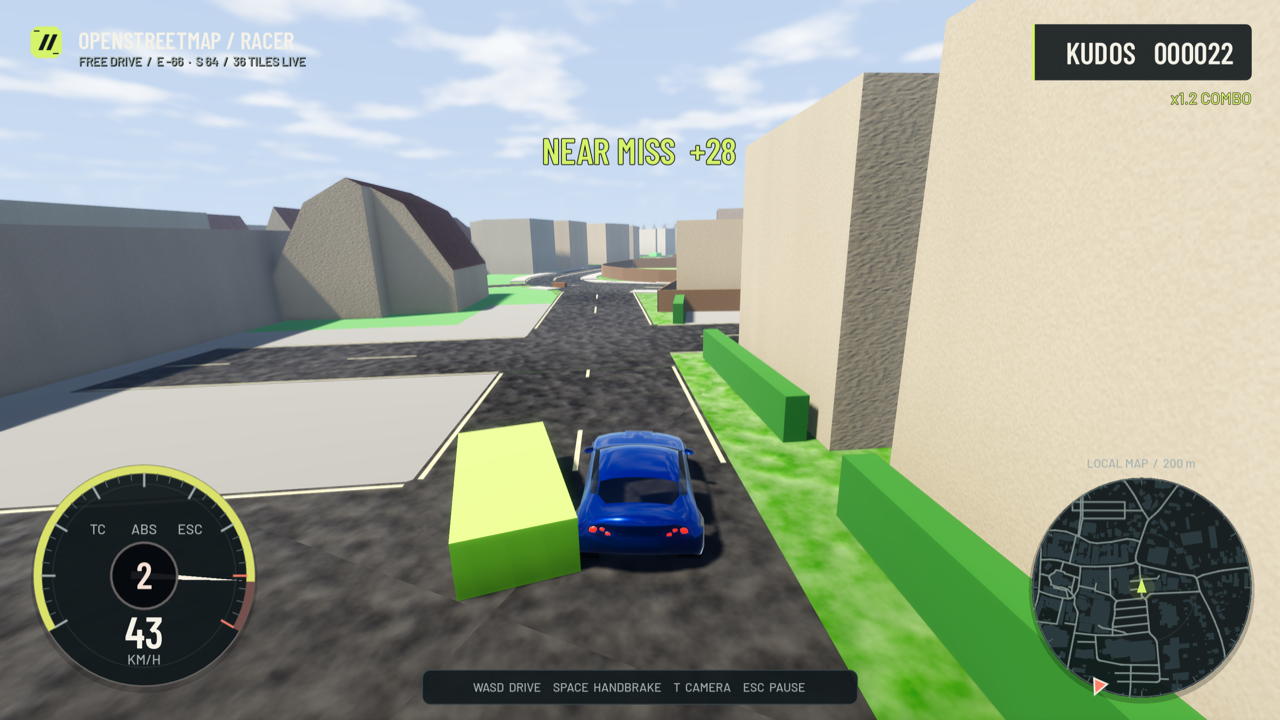
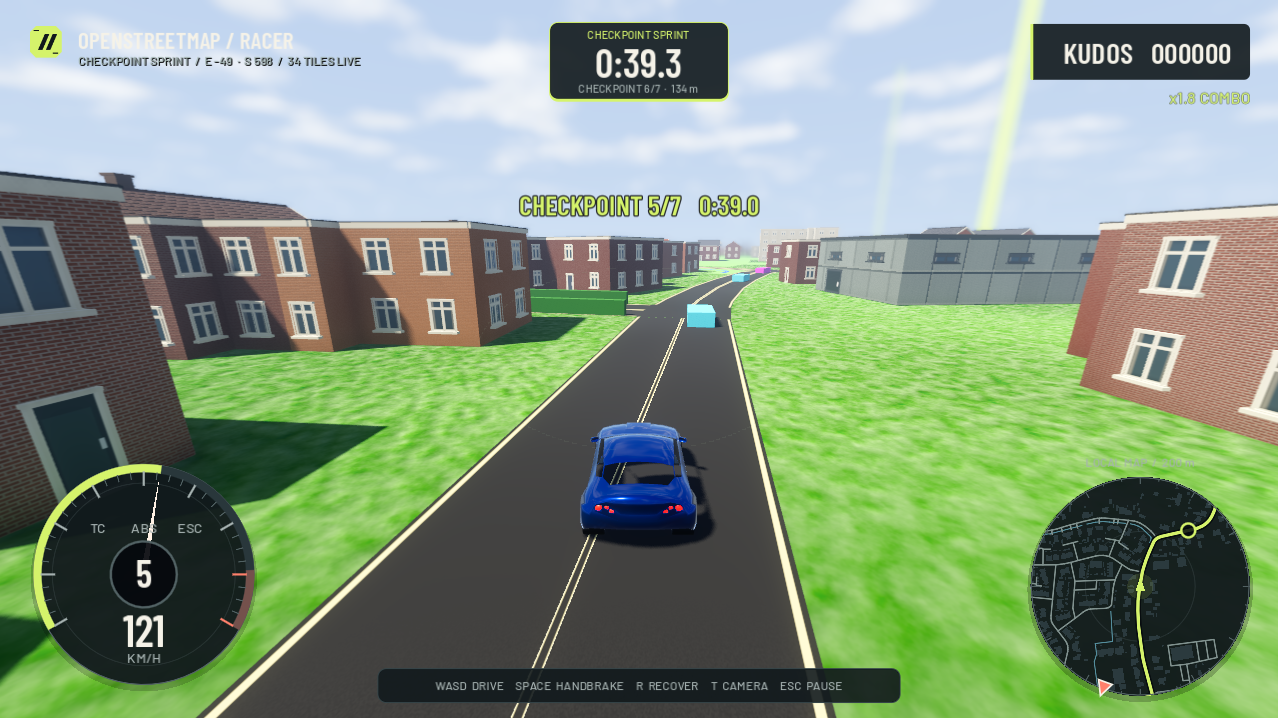
docs: Update screenshot

diff --git a/docs/MAKE_IT_FORZA.md b/docs/MAKE_IT_FORZA.md
@@ -1,0 +1,118 @@
+# Make It Forza — Status
+
+This started as a to-do list for pushing the visuals toward a Forza-grade look.
+Most of it has since shipped; this version tracks what's **done** vs. what's
+**still open**, so it stays useful as a checklist rather than a stale wish-list.
+
+## Where we started vs. Forza
+
+Forza's "look" comes from a few things stacked together: PBR materials, strong
+post-processing (bloom/HDR/tonemap/SSAO/SSR), high-contrast lighting with crisp
+shadows, and reflective surfaces (car paint, wet roads). The engine already did
+the hard structural work (procedural roads, terrain draping, day/night); the gap
+was surface polish and post-processing — and most of that is now in.
+
+## Highest-leverage changes
+
+### 1. Post-processing on the Environment — ✅ DONE
+Implemented as `scripts/post_processing.gd` on the `PostProcessing` node, each
+effect an independent exported toggle, crossfading with day/night:
+- ✅ **Glow/Bloom** — sun, headlights, street-lamp emissives, lit windows bloom (harder at night)
+- ✅ **SSAO** — contact shadows where buildings meet ground / under cars
+- ✅ **SSIL** — screen-space indirect bounce light
+- ✅ **SSR** — screen-space reflections (glossy roads, car paint, glass) — the usual frame-rate cliff
+- ✅ **Adjustments** — ACES tonemap + exposure/contrast/saturation grade
+- ✅ **Far depth-of-field** blur (via `CameraAttributesPractical` on the player camera)
+
+### 2. Real PBR / procedural materials — ✅ DONE (texture-free approach)
+Rather than image texture maps, the surfaces use **procedural-PBR shaders**
+(world-space noise, no image files) — same spirit as the asphalt shader:
+- ✅ **Asphalt** — grain + varied roughness + faked bump, and a wet sheen driven by the global `wetness` uniform (wet roads collapse to a near-mirror for SSR)
+- ✅ **Buildings** — `building_wall.gdshader` / `roof.gdshader` via `BuildingMaterialFactory`: plaster / masonry (brick courses) / panel walls, and tile / membrane / standing-seam roofs keyed off OSM `building:material` / `roof:material`
+- ✅ **Terrain/grass** — `terrain.gdshader` two-tint patchiness + blade grain, with a damp sheen when wet
+- ↔ *Open*: real tiling normal/roughness **image** maps were the original idea; the procedural route was taken instead. Swap in image maps only if a surface needs detail the noise can't fake.
+
+### 3. Car paint shader (hero asset) — ✅ DONE
+`scripts/car_paint.gd` swaps the imported flat materials for PBR by surface name:
+metallic base coat under a clear-coat lacquer (body), near-mirror dark glass,
+mirror chrome, self-illuminated rear lights (bloom at night), matte tyres. Reflects
+the world under SSR. Body colour exposed as `paint_color`.
+
+### 4. Lighting contrast & shadows — ✅ DONE
+Day/night presets in `sky_controller.gd` drive high-contrast sun + the ACES grade;
+CSM shadows configured in the scene. (Further split-distance tuning is always available.)
+
+### 5. Driving feel & driver aids — ✅ DONE
+Forza's identity is as much the *car* as the picture. The visuals shipped first;
+this closes the input/handling half:
+- ✅ **Analog input / gamepad** — steering, throttle and brake are bound to stick
+  and trigger axes (`project.godot`), so `get_action_strength` returns real
+  partial values instead of 0/1. Deadzones tightened for fine control.
+- ✅ **Steering rack** (`scripts/steering_model.gd`) — the wheels no longer snap
+  to full lock the frame a key goes down. Rate-limited turn-in, faster
+  self-centring (caster), and a speed-sensitive lock taper scaled to the car's
+  own top speed.
+- ✅ **Countersteer assist** — steers into a slide proportionally to slip, and
+  yields once the driver corrects, so drifts are catchable rather than a coin flip.
+- ✅ **TCS / ABS / stability control** (`scripts/driving_assists.gd`) — Forza's
+  assist suite. Each independently switchable; all intervene smoothly and
+  partially so the car never feels like it stalled or is fighting your hands. The
+  handbrake deliberately bypasses ABS and mostly escapes stability control, so
+  deliberate drifting still works.
+
+### 6. Instrument cluster — ✅ DONE
+The plain "0 km/h" / "N" corner labels are gone, replaced by a drawn dial
+(`scripts/dial_cluster.gd` + `scripts/tachometer_model.gd`):
+- ✅ **Swept rev counter** with tick marks, a red zone, and a needle that eases
+  rather than teleporting — so an upshift reads as a quick sweep down, the
+  familiar tacho sawtooth.
+- ✅ **Shift light** — the rim, hub and needle wash to red as the limiter nears,
+  ramping with how deep into the redline the engine is.
+- ✅ **Gear in the hub** and a digital speed readout below it.
+- ✅ **TC / ABS / ESC telltales** — lit while the corresponding driver aid is
+  intervening, so the assists are visible instead of invisible magic.
+
+Revs are derived from the existing `Transmission` gear band (bottom of a gear =
+just-shifted revs, top = the limiter), so the dial needs no new physics. Drawn
+with Godot primitives, matching the project's texture-free approach.
+
+## Medium-effort polish
+
+- ✅ **Wet-road / rain weather mode** — `scripts/weather_controller.gd`, global `wetness` uniform, toggle with **F5** (or the pause-menu checkbox). Reuses SSR beautifully.
+- ✅ **Depth-of-field far-blur** — done (see post-processing).
+- ✅ **Crosswalks / lane paint** — shipped as **shader-painted** markings (`RoadLaneSpec` longitudinal lines + `RoadMarkingSpec` zebra/stop/give-way bands in `asphalt.gdshader`), not modelled 3D geometry. The z-fighting that plagued overlapping ribbons was solved with Mapnik-style `render_priority` draw ordering.
+- ✅ **Camera feel** — trauma-based **camera shake** on impact/landing (`camera_shake.gd`) and **speed-scaled FOV** expansion (`car_controller.gd`) add the racing-game sensation.
+- ✅ **Impact feedback** — one-shot spark/debris **impact particles** (`impact_particles.gd`) plus **tire-screech** and **impact** audio (`car_audio_triggers.gd`).
+
+### 7. Speed blur — ✅ DONE
+`scripts/shaders/speed_blur.gdshader` + `scripts/speed_blur.gd`: a radial smear
+that leaves the centre of the frame sharp and blurs progressively toward the
+edges, ramping in above ~90 km/h. Godot 4 has no built-in motion blur, and a
+velocity-buffer implementation would be far more expensive — but when driving
+forward the world's screen-space motion genuinely *is* radial, so sampling along
+the vector from the vanishing point reproduces it convincingly and cheaply.
+Runs on its own CanvasLayer beneath the HUD, so the instruments stay crisp.
+Toggleable from the pause menu (as are the driver aids, Forza-style).
+
+### Still open
+- ↔ **Better trees / vegetation** — still placeholder boxes / simple models; instanced billboard/LOD trees would fill the world.
+- ↔ **Reflection probes** in dense areas — SSR only reflects on-screen geometry; probes would give off-screen local reflections.
+- ↔ **Real 3D crosswalk/lane geometry** — currently shader bands; modelled geometry remains an option if the shader bands ever look flat under grazing angles.
+- ↔ **Race structure** — checkpoints, lap timing and persistent best times. The
+  kudos scorer already provides a PGR-style style metric, but there is nothing to
+  race *against* yet. This is the largest remaining gap between "driving sandbox"
+  and "racing game".
+
+### Known bug (pre-existing, not from the work above)
+- 🐞 **Spawn lands on a rooftop.** `main.gd::_on_world_ready` raycasts down to
+  find the ground, but the ray starts 50 m above the sampled terrain height and
+  hits whatever building happens to occupy the spawn column — so the car starts
+  on a roof (observed spawn Y ≈ 8 m). The raycast needs a building mask, or the
+  spawn point needs to be chosen on a road.
+
+## Recommendation
+
+The Forza-look stack (post-processing, PBR-ish surfaces, car paint, wet roads,
+contrast lighting) and the Forza-*feel* stack (analog input, steering rack,
+driver aids, instrument cluster, speed blur) are both in. The biggest remaining
+jump is no longer visual: it is giving the player something to race against.

diff --git a/docs/STREETS_ROADMAP.md b/docs/STREETS_ROADMAP.md
@@ -1,0 +1,152 @@
+# Streets Roadmap — toward GTA-grade roads
+
+Tracks the road/intersection rendering system: what shipped in v1, what is
+deliberately deferred, and what we learned building it. Companion to
+`MAKE_IT_FORZA.md`, which covers the surface/lighting side of the same goal.
+
+## Where we started
+
+Every OSM way was drawn as a full-length miter-joined ribbon that simply
+**overlapped** other ways where they met — the Mapnik model. Z-fighting was
+avoided by never writing depth and painting bigger road classes last.
+
+From above that reads fine. At street level it obviously isn't a road network:
+
+- There was no intersection surface at all, just two ribbons crossing.
+- Lane lines ran straight through crossings.
+- Kerbs stopped dead in mid-air wherever two streets met.
+- `layer` / `bridge` / `tunnel` were ignored entirely for roads, so an overpass
+  was painted flat onto the road it crossed.
+- A ~220-line "lane attachment" workaround nudged narrow roads sideways onto a
+  wider road's lane centre to disguise the missing junction. It also scanned
+  every way in the tile per road, i.e. O(n²) per tile.
+
+## v1 — shipped
+
+Intersections are now real geometry.
+
+### Junction solving — `scripts/road_junction_solver.gd`
+Pure geometry, no scene tree, exactly unit-testable.
+
+- **Arm-based detection.** A node is a junction when 3+ road *arms* meet there.
+  Counting arms rather than ways is essential: a `+` crossing is only two ways,
+  but each passes through and leaves in two directions. Counting ways would
+  score it 2 and miss it — while a road merely continuing into another way also
+  scores 2 but must *not* be treated as an intersection.
+- **Trim distances.** Each arm is pulled back far enough to clear the corners it
+  participates in, clamped so an acute fork can't eat a whole street.
+- **Cap polygon** with rounded corner fillets, walked in bearing order.
+- **Deterministic** by construction — this is load-bearing, see the halo below.
+
+### Rendering — `scripts/osm_junction_builder.gd`
+Intersection surface (terrain-draped like the ribbons), kerb corners wrapping
+the junction, dropped-kerb ramps where pavement meets each arm, and painted stop
+bars per approach. Junction markings are **explicit geometry** because the cap
+has no along/across parameterisation for the shader's UV-driven lane lines.
+
+### Tile-boundary correctness — `scripts/road_network_context.gd`
+A junction near a tile border has arms owned by neighbouring tiles. Solving from
+one tile's ways alone sees too few arms and computes a different trim than the
+neighbour does — cutting the same street at two different points and leaving a
+visible step on the seam.
+
+Each tile is therefore solved against a **halo** of its eight neighbours, pulled
+through the existing mutex-guarded LRU. Because the solver is deterministic,
+tiles independently reach identical answers. Cap ownership is by containing
+tile, so exactly one tile draws each intersection (duplicates would z-fight;
+none would leave a hole).
+
+Solving runs in the **worker-thread parse phase**, so it costs nothing from the
+main thread's frame budget.
+
+### Shared cross-section rules — `scripts/road_profile.gd`
+Width, colour, kerb and layer rules in one place. The solver and the ribbon
+builder must agree on width to the centimetre or caps won't meet ribbon mouths;
+sharing this module makes that class of bug structurally impossible.
+
+Also fixed here: OSM `sidewalk=separate` means *the footway is mapped as its own
+way, so draw no inline kerb*. The old code drew a kerb **only** for `separate` —
+exactly backwards.
+
+### Layers
+`layer` / `bridge` / `tunnel` now separate crossing roads vertically instead of
+by paint order, inferring a level from `bridge=yes` / `tunnel=yes` when `layer`
+is omitted. Tunnels are no longer drawn on the surface.
+
+### Surface detection — `scripts/surface_detector.gd`
+Now tests real mesh triangles rather than bounding boxes. The AABB approximation
+was defensible for long ribbons but broke on intersections: a 45° road's AABB is
+roughly twice the carriageway, so the car read "on tarmac" while driving over
+grass beside it.
+
+### Validation
+| Metric | Result |
+| --- | --- |
+| Real intersections built (Netherlands extract) | 418 across 145 tiles |
+| Cap triangulation failures | **0** (was 44 before the corner-pairing fix) |
+| Junction solve, average per tile | 3.2 ms (worker thread) |
+| Junction solve, worst tile | 6.2 ms (worker thread) |
+| Test suite | 697 passing, 0 failures |
+
+## v2 — deferred, in rough priority order
+
+### 1. Roundabouts
+The dataset has **33k** `junction=roundabout` ways, so this is the highest-value
+remaining item. Roundabouts are closed *ways*, not junction nodes, and need a
+different generator: ring carriageway, central island, arms trimmed to the ring
+rather than to a cap polygon. They currently fall through to ordinary ribbon
+rendering, so a roundabout reads as a loop of road rather than a roundabout.
+
+### 2. Lane lines terminating before the junction
+Lane markings currently run to the trimmed ribbon end. Real roads stop the
+centre line short of the crossing. The shader already has an `end_fade` uniform
+and `road_length`; this is mostly a matter of feeding it the trimmed length.
+
+### 3. Crosswalks at junction approaches
+Stop bars ship in v1; zebra crossings on junction arms do not. `RoadMarkingSpec`
+already classifies crossing nodes for ribbons — the work is placing them on the
+approach, oriented to that arm, as cap geometry.
+
+### 4. Turn arrows
+Needs `turn:lanes` parsing plus arrow geometry (or an SDF in the paint shader).
+Cosmetic but a strong GTA cue.
+
+### 5. Turn pockets / flares
+Approach lanes widening into dedicated turn lanes. Requires per-arm width to
+vary along its length, which the current constant-width ribbon can't express —
+the largest structural change on this list.
+
+### 6. Median islands
+Raised or painted dividers on larger roads. Needs `dual_carriageway` handling to
+avoid fighting with OSM's convention of mapping divided roads as two ways.
+
+### 7. Collidable kerbs
+Kerbs are visual-only in v1. Making them collidable means a StaticBody per
+junction and segment; it needs care so the car doesn't catch on seams, and
+should be measured behind a toggle before being switched on by default.
+
+### 8. Per-tile mesh merging
+Roads and junctions are still one mesh per feature. Batching per tile would cut
+draw calls substantially. Deferred because it interacts with surface detection
+and unload granularity, and no frame-rate problem has been demonstrated yet —
+worth doing when there's a profile to point at.
+
+## Notes for whoever picks this up
+
+**Cap winding is load-bearing.** Arms sort by increasing `atan2(dir.z, dir.x)`.
+A cap must pair each arm's RIGHT edge with the NEXT arm's LEFT edge. The
+opposite pairing connects each arm to the far side of the junction and produces
+a self-intersecting star that will not triangulate at all — the intersection
+renders as a hole rather than as anything visibly wrong, so it's easy to
+misdiagnose. `_corner_distance` must use the *same* pairing as `_build_cap`.
+
+**Test `raw_cap`, not `cap`.** The convex-hull repair that rescues acute forks
+will also quietly paper over a broken corner calculation. Assertions on cap
+geometry should use `Junction.raw_cap` (the walk before repair) or they pass
+with the maths wrong. Verified by reintroducing the corner-pairing bug and
+confirming the test fails.
+
+**Symmetric test fixtures hide corner bugs.** A `+` crossing has four congruent
+corners, so it stays valid under transformations that break real junctions. The
+corner-pairing bug passed every synthetic test and only surfaced against the
+real extract. Asymmetric fixtures earn their keep here.
